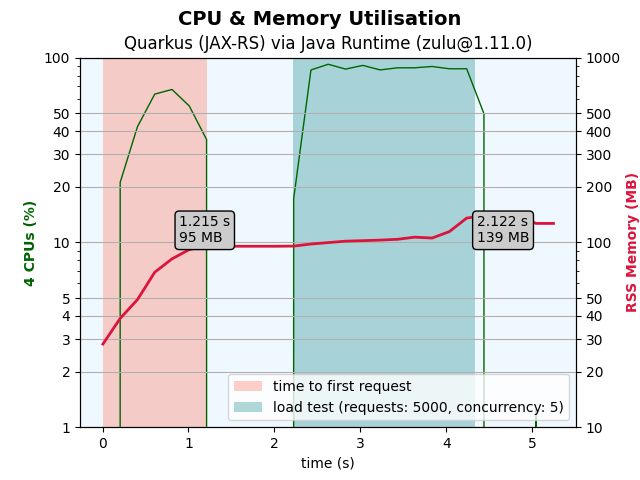
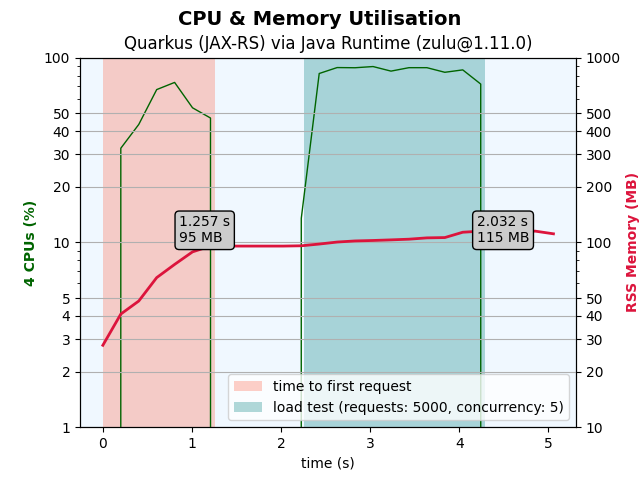
upgrade to quarkus 1.3.1.Final

diff --git a/README.md b/README.md
@@ -7,8 +7,8 @@ The test uses four demo projects.
 
 * **demo-payara** contains a simple JAX-RS application packaged as uber-jar with **Payara Micro (5.201)** application server
 * **demo-payara-jpa** contains an advanced JAX-RS, JSON-B, CDI, JPA, PostgresDB application packaged as uber-jar with **Payara Micro (5.201)** application server
-* **demo-quarkus** contains a simple **Quarkus (1.3.0)** application packaged as jar and additionally compiled as native image using the GraalVM Native Image
-* **demo-quarkus-jpa** contains an advanced JAX-RS, JSON-B, CDI, JPA, PostgresDB **Quarkus (1.3.0)** application packaged as jar and additionally compiled as native image using the GraalVM Native Image
+* **demo-quarkus** contains a simple **Quarkus (1.3.1.Final)** application packaged as jar and additionally compiled as native image using the GraalVM Native Image
+* **demo-quarkus-jpa** contains an advanced JAX-RS, JSON-B, CDI, JPA, PostgresDB **Quarkus (1.3.1.Final)** application packaged as jar and additionally compiled as native image using the GraalVM Native Image
 
 ## **(1) Prepare and start plot-tests**
 
